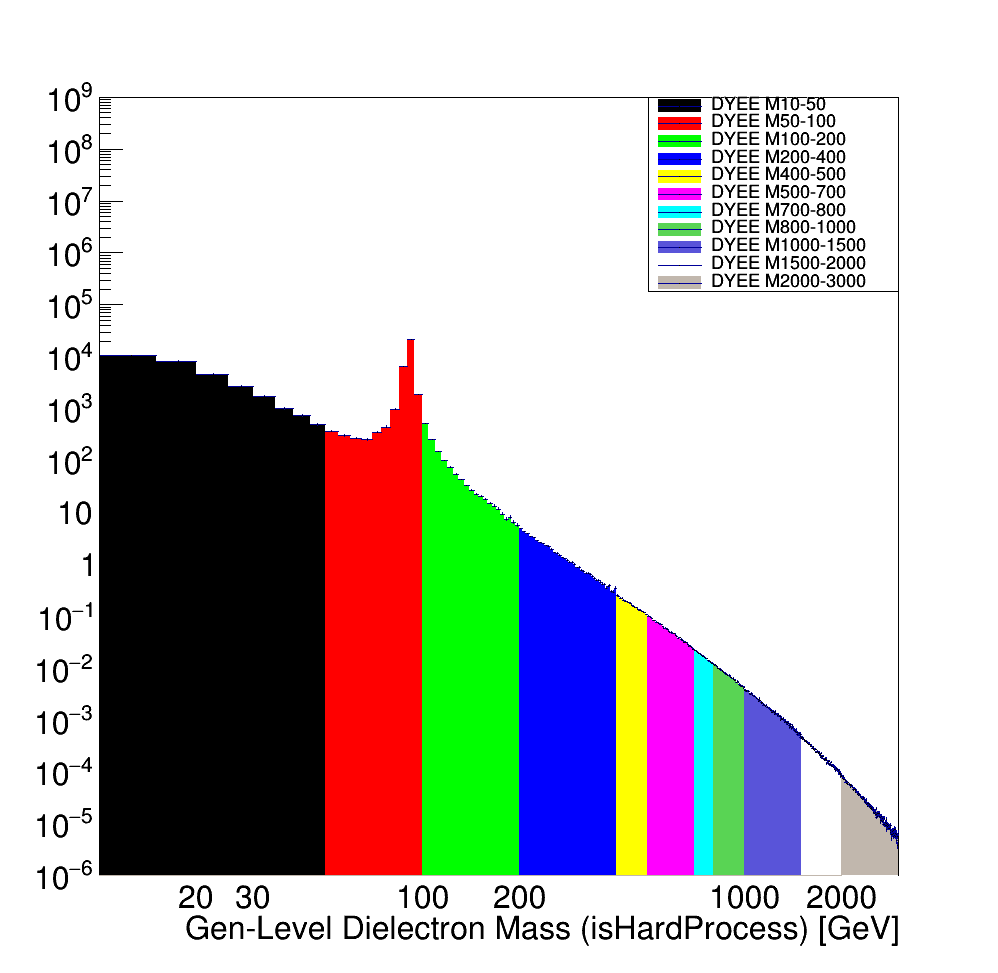
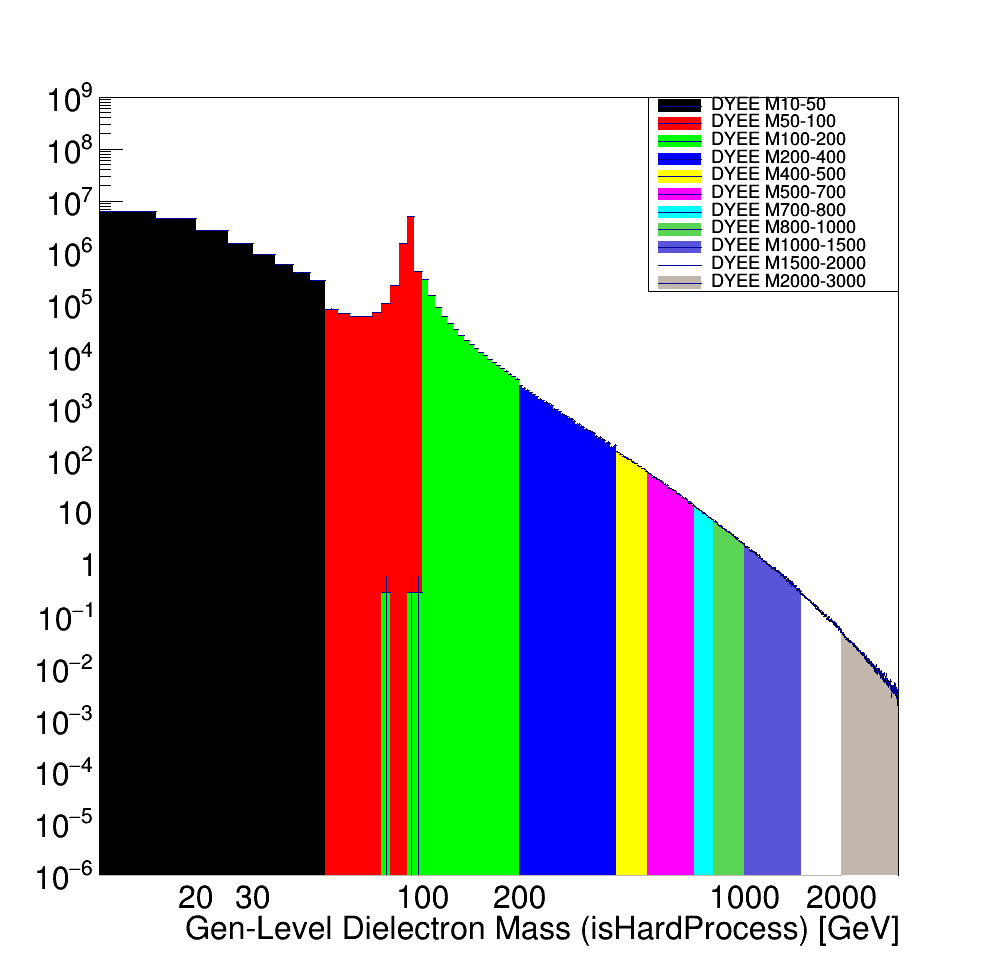
updated to run over reduced ntuples

Changed region(s): [[0.0932, 0.2158, 0.8387, 0.7708], [0.3727, 0.5858, 0.4349, 0.8941], [0.8076, 0.6475, 0.9008, 0.8633]]

diff --git a/dataVsMC.C b/dataVsMC.C
@@ -52,7 +52,7 @@ const int numChains = 37;
 //Cross sections obtained from https://twiki.cern.ch/twiki/bin/viewauth/CMS/SNUCMSYooDYntuple
 const float xSec[numChains] = {5352960,9928000,2890800,350000,62964,18810,1350,//QCD
 			       61526.7,118.7,12.178,16.523,1.256,47.13,4.4297,//Bosons
-			       831.76,76.605,20.578,35.85,35.85,//tops
+			       734.577,76.605,20.578,35.85,35.85,//tops
 			       18810.0,5705.9044344,226.6,7.77,0.4065,0.2334,0.03614,//DY
 			       0.03047,0.01636,0.00218,0.0005156,//DY
 			       1,1,1,1,1,1,1};//data (unweighted)
@@ -71,7 +71,6 @@ const float eMass = 0.000511;
 
 const TString treeName = "recoTree/DYTree";
 const float dRMinCut = 0.3;
-const int maxFiles = 200;
 
 void dataVsMC()
 {
@@ -96,43 +95,43 @@ void dataVsMC()
   
   enum chainNum 
   {
-    QCD20to30 = 0,
-    QCD30to50 = 1,
-    QCD50to80 = 2,
-    QCD80to120 = 3,
-    QCD120to170 = 4,
-    QCD170to300 = 5,
-    QCD300toInf = 6,  
-    wJets = 7,
-    WW = 8,    
-    WWTo2L2Nu = 9,
-    ZZ = 10,       
-    ZZTo4L = 11,
-    WZ = 12,
-    WZTo3LNu = 13,
-    tt = 14,
-    tt700to1000 = 15,
-    tt1000toInf = 16,
-    tW = 17,             
-    tbarW = 18,         
-    MC10to50 = 19,
-    MC50to100 = 20,
-    MC100to200 = 21,
-    MC200to400 = 22,
-    MC400to500 = 23,
-    MC500to700 = 24,
-    MC700to800 = 25,
-    MC800to1000 = 26,
-    MC1000to1500 = 27,
-    MC1500to2000 = 28,
-    MC2000to3000 = 29,
-    DataRunB = 30,
-    DataRunC = 31,
-    DataRunD = 32,
-    DataRunE = 33,
-    DataRunF = 34,
-    DataRunG = 35,
-    DataRunH = 36
+    QCD20to30,
+    QCD30to50,
+    QCD50to80,
+    QCD80to120,
+    QCD120to170,
+    QCD170to300,
+    QCD300toInf,  
+    wJets,
+    WW,    
+    WWTo2L2Nu,
+    ZZ,       
+    ZZTo4L,
+    WZ,
+    WZTo3LNu,
+    tt0to700,
+    tt700to1000,
+    tt1000toInf,
+    tW,             
+    tbarW,         
+    MC10to50,
+    MC50to100,
+    MC100to200,
+    MC200to400,
+    MC400to500,
+    MC500to700,
+    MC700to800,
+    MC800to1000,
+    MC1000to1500,
+    MC1500to2000,
+    MC2000to3000,
+    DataRunB,
+    DataRunC,
+    DataRunD,
+    DataRunE,
+    DataRunF,
+    DataRunG,
+    DataRunH
   }; 
 
 TString dirNames[numChains]=
@@ -151,13 +150,13 @@ TString dirNames[numChains]=
     "/ZZTo4L_13TeV_powheg_pythia8",
     "/WZ_TuneCUETP8M1_13TeV-pythia8",
     "/WZTo3LNu_TuneCUETP8M1_13TeV-powheg-pythia8",
-    "/TT_TuneCUETP8M2T4_13TeV-powheg-pythia8/crab_ttbar",
+    "/TT_TuneCUETP8M2T4_13TeV-powheg-pythia8_truncated_M0To700/crab_ttbar",
     "/TT_Mtt-700to1000_TuneCUETP8M2T4_13TeV-powheg-pythia8",
     "/TT_Mtt-1000toInf_TuneCUETP8M2T4_13TeV-powheg-pythia8",
     "/ST_tW_top_5f_inclusiveDecays_13TeV-powheg-pythia8_TuneCUETP8M1",
     "/ST_tW_antitop_5f_inclusiveDecays_13TeV-powheg-pythia8_TuneCUETP8M1",
     "/DYJetsToLL_M-10to50_TuneCUETP8M1_13TeV-amcatnloFXFX-pythia8/crab_DYLL_M10to50",
-    "/DYJetsToLL_M-50_TuneCUETP8M1_13TeV-amcatnloFXFX-pythia8",
+    "/DYJetsToLL_M-50_TuneCUETP8M1_13TeV-amcatnloFXFX-pythia8_truncated_M50To100",
     "/DYJetsToLL_M-100to200_TuneCUETP8M1_13TeV-amcatnloFXFX-pythia8/crab_DYLL_M100to200",
     "/DYJetsToLL_M-200to400_TuneCUETP8M1_13TeV-amcatnloFXFX-pythia8",
     "/DYJetsToLL_M-400to500_TuneCUETP8M1_13TeV-amcatnloFXFX-pythia8",
@@ -178,19 +177,17 @@ TString dirNames[numChains]=
  
  TString baseDirectory = 
    "/mnt/hadoop/user/uscms01/pnfs/unl.edu/data4/cms/store/user/ikrav/DrellYan_13TeV_2016/v2p3"; 
+    
  TChain*chains[numChains];
  vector <TString> *subFiles[numChains];  
  for(int iChain=0;iChain<numChains;iChain++)
    {
-     if(iChain==tt700to1000||iChain==tt1000toInf) continue;//skip these files for now
-     if(iChain==WWTo2L2Nu||iChain==ZZTo4L||iChain==WZTo3LNu) continue;//skip these files for now
+     if(iChain==WWTo2L2Nu||iChain==ZZTo4L||iChain==WZTo3LNu) continue;//Not using these in this analysis
+     if(iChain==QCD20to30||iChain==QCD30to50||iChain==QCD50to80||iChain==QCD80to120||iChain==QCD120to170||
+	iChain==QCD170to300||iChain==QCD300toInf) continue;//skipping QCD due to possible problems
+
      subFiles[iChain] = new vector<TString>;
-     if(iChain==QCD30to50||iChain==QCD50to80||iChain==QCD80to120||iChain==QCD120to170) 
-       {
-	 subFiles[iChain]->push_back(dirNames[iChain]);
-	 subFiles[iChain]->push_back(dirNames[iChain]+"_ext1");
-       }
-     else if(iChain==MC10to50) 
+     if(iChain==MC10to50) 
        {
 	 subFiles[iChain]->push_back(dirNames[iChain]+"_ext1v1");
 	 subFiles[iChain]->push_back(dirNames[iChain]+"_v1");
@@ -206,7 +203,7 @@ TString dirNames[numChains]=
 	 subFiles[iChain]->push_back(dirNames[iChain]+"ver2");
 	 subFiles[iChain]->push_back(dirNames[iChain]+"ver3");
        }
-     else if(iChain==tt)
+     else if(iChain==tt0to700)
        {
 	 subFiles[iChain]->push_back(dirNames[iChain]);
 	 subFiles[iChain]->push_back(dirNames[iChain]+"Backup");
@@ -219,8 +216,9 @@ TString dirNames[numChains]=
  Long64_t totalentries = 0;
  for(int iChain=0;iChain<numChains;iChain++)
     {          
-      if(iChain==tt700to1000||iChain==tt1000toInf) continue;//skip these files for now
-      if(iChain==WWTo2L2Nu||iChain==ZZTo4L||iChain==WZTo3LNu) continue;//skip these files for now
+      if(iChain==WWTo2L2Nu||iChain==ZZTo4L||iChain==WZTo3LNu) continue;//not using these in this analysis
+      if(iChain==QCD20to30||iChain==QCD30to50||iChain==QCD50to80||iChain==QCD80to120||iChain==QCD120to170||
+	 iChain==QCD170to300||iChain==QCD300toInf) continue;//skipping QCD due to possible problems
       chains[iChain] = new TChain(treeName);
       subDirectorySize = subFiles[iChain]->size();
       for(int k=0;k<subDirectorySize;k++)
@@ -341,7 +339,7 @@ TString dirNames[numChains]=
   hStacklinear->Add(hTopslinear);
   hStacklinear->Add(hMCInvMasslinear); 
 
-  TFile *rootFile = new TFile("./plots/dataVsMC.root","RECREATE");
+  TFile *rootFile = new TFile("./plots/dataVsMC35900Scaling.root","RECREATE");
 
   //Event Loop
   cout << "Starting Event Loop" << endl;
@@ -352,18 +350,18 @@ TString dirNames[numChains]=
   TString trigName;
   int trigNameSize;
   //nentries = 10000;
-  double lumi = chains[MC50to100]->GetEntries()/xSec[MC50to100]; //luminosity of 50to100
+  //double lumi = chains[MC50to100]->GetEntries()/xSec[MC50to100]; //luminosity of 50to100
   //double lumi = nentries/xSec[MC50to100];
+  double lumi = 35900;
   for(int iChain=0;iChain<numChains;iChain++)
     {
-      if(iChain==tt700to1000||iChain==tt1000toInf) continue;//skip these files for now
-      if(iChain==WWTo2L2Nu||iChain==ZZTo4L||iChain==WZTo3LNu) continue;//skip these files for now
+      if(iChain==WWTo2L2Nu||iChain==ZZTo4L||iChain==WZTo3LNu) continue;//not using these in this analysis
+      if(iChain==QCD20to30||iChain==QCD30to50||iChain==QCD50to80||iChain==QCD80to120||iChain==QCD120to170||
+	 iChain==QCD170to300||iChain==QCD300toInf) continue;//skipping QCD due to possible problems
       //nentries = 10000;
       nentries = chains[iChain]->GetEntries();
       //if(chains[iChain]->GetEntries() < nentries) nentries = chains[iChain]->GetEntries();
-      weight=lumi*(xSec[iChain]/nentries);
-
-      
+      weight=lumi*(xSec[iChain]/nentries);      
 
       for(Long64_t i=0;i<nentries;i++)
 	{      
@@ -400,8 +398,7 @@ TString dirNames[numChains]=
 		{	  
 		  invMass=calcInvMass(Electron_pT[iEle],Electron_eta[iEle],Electron_phi[iEle],eMass,
 				      Electron_pT[jEle],Electron_eta[jEle],Electron_phi[jEle],eMass);
-		  
-		  if(iChain==MC50to100 && invMass>100) continue;
+
 		  if(!passDileptonKinematics(Electron_pT[iEle],Electron_pT[jEle],Electron_eta[iEle],
 					     Electron_eta[jEle])) continue; 		    
 
@@ -425,7 +422,7 @@ TString dirNames[numChains]=
 		      hEW->Fill(invMass,weight);
 		      hEWlinear->Fill(invMass,weight);
 		    }
-		  else if(iChain==tt||iChain==tW||iChain==tbarW) 
+		  else if(iChain==tt0to700||iChain==tt700to1000||iChain==tt1000toInf||iChain==tW||iChain==tbarW) 
 		    {
 		      hTops->Fill(invMass,weight);
 		      hTopslinear->Fill(invMass,weight);
@@ -444,7 +441,7 @@ TString dirNames[numChains]=
     }//end chain loop 
   
   double integralData, integralMC;
-  
+  /*  
   integralData = 
     hDataInvMass->Integral(hDataInvMass->GetXaxis()->FindBin(binLow),hDataInvMass->GetXaxis()->FindBin(binHigh));
   integralMC = 
@@ -463,7 +460,7 @@ TString dirNames[numChains]=
   hFakeslinear->Scale(norm);
   hEWlinear->Scale(norm);
   hTopslinear->Scale(norm);  
-
+  */
   TCanvas*canvas1 = new TCanvas("canvas1","",10,10,1000,1000);
   canvas1->SetLogx();
   canvas1->SetLogy();
@@ -474,7 +471,7 @@ TString dirNames[numChains]=
   legend->AddEntry(hMCInvMass,"#gamma^{*}/Z #rightarrow e^{-}e^{+}");
   legend->AddEntry(hTops,"t#bar{t}+tW+#bar{t}W");
   legend->AddEntry(hEW,"EW");
-  legend->AddEntry(hFakes,"Fakes (Wjets+QCD)");
+  legend->AddEntry(hFakes,"Fakes");
 
   auto hDataMCRatio = new TRatioPlot(hStack,hDataInvMass);
   hDataMCRatio->GetXaxis()->SetTitle("m_{ee} [GeV]");  
@@ -483,20 +480,17 @@ TString dirNames[numChains]=
   hDataMCRatio->GetUpperPad()->cd();
   legend->Draw("same");
   canvas1->Update();
-  canvas1->SaveAs("./plots/dataVsMClog.png");
   
   TCanvas*canvas2 = new TCanvas("canvas2","",10,10,1000,1000);
   canvas2->SetLogy();
   auto hDataMCRatiolinear = new TRatioPlot(hStacklinear,hDataInvMasslinear); 
   canvas2->cd();
   hDataMCRatiolinear->Draw();
-  //TH1F*graph = (TH1F*)hDataMCRatiolinear->Clone();
-  //graph->SetMinimum(0.001);
-  //graph->Draw();
   hDataMCRatiolinear->GetUpperPad()->cd();
   legend->Draw("same");
  
-  canvas2->SaveAs("./plots/dataVsMClinear.png");
+  canvas1->SaveAs("./plots/dataVsMClog35900Scaling.png");
+  
   rootFile->cd();
   hStack->Write();
   hDataInvMass->Write();
@@ -511,7 +505,6 @@ TString dirNames[numChains]=
   hEWlinear->Write();
   hTopslinear->Write();
   canvas1->Write();
-  canvas2->Write();
   rootFile->Write();
   rootFile->Close();
   
@@ -537,8 +530,7 @@ void counter(Long64_t i, Long64_t N)
   TTimeStamp eventTimeStamp;
   if(i%(N/100)==0)
     {
-      cout << P << "%" <<  endl;
-      cout << "[Time: " << eventTimeStamp.AsString("s") << "]" << endl;
+      cout << "dataVsMC.C " << P << "%" <<  "[Time: " << eventTimeStamp.AsString("s") << "]" << endl;
     }
   return;
 }

diff --git a/efficiencies.C b/efficiencies.C
@@ -119,8 +119,7 @@ void efficiencies()
 	"/DYJetsToLL_M-1000to1500_TuneCUETP8M1_13TeV-amcatnloFXFX-pythia8",
 	"/DYJetsToLL_M-1500to2000_TuneCUETP8M1_13TeV-amcatnloFXFX-pythia8",
 	"/DYJetsToLL_M-2000to3000_TuneCUETP8M1_13TeV-amcatnloFXFX-pythia8"
-      };
- 
+      }; 
  TString baseDirectory = 
    "/mnt/hadoop/user/uscms01/pnfs/unl.edu/data4/cms/store/user/ikrav/DrellYan_13TeV_2016/v2p3"; 
  TChain*chains[numChains];
@@ -361,8 +360,7 @@ void efficiencies()
 	  if(idxRecoEle1>0&&idxRecoEle2>0)
 	    invMassReco=calcInvMass(Electron_pT[idxRecoEle1],Electron_eta[idxRecoEle1],Electron_phi[idxRecoEle1],
 				    eMass,Electron_pT[idxRecoEle2],Electron_eta[idxRecoEle2],
-				    Electron_phi[idxRecoEle2],eMass);
-	  
+				    Electron_phi[idxRecoEle2],eMass);	  
 	  if(nGenDielectrons==0) 
 	    continue; // must be DY->mumu or tautau event, skip it
 	  
@@ -391,10 +389,10 @@ void efficiencies()
 				GENLepton_phi[idxGenEleFS1],eMass,GENLepton_pT[idxGenEleFS2],
 				GENLepton_eta[idxGenEleFS2],GENLepton_phi[idxGenEleFS2],eMass);		  
 
-	  hHardProcess[iChain]->Fill(invMassHardProcess,weight);//Fill if hard process electrons
-
-	  trigNameSize = pHLT_trigName->size();
+	  hHardProcess[iChain]->Fill(invMassHardProcess,weight);//Fill if hard process gen-electrons
+	  
 	  //HLT cut
+	  trigNameSize = pHLT_trigName->size();
 	  bool passHLT = kFALSE;	  
 	  for(int iHLT=0;iHLT<trigNameSize;iHLT++)
             {
@@ -431,8 +429,8 @@ void efficiencies()
 	  closestTrackLep1 = closestTrackLep2 = -1;
 	  bool genToRecoMatchedLep1 = findGenToRecoMatch(idxGenEleFS1,closestTrackLep1);	      
 	  bool genToRecoMatchedLep2 = findGenToRecoMatch(idxGenEleFS2,closestTrackLep2);	      
-	  if( ! (genToRecoMatchedLep1 && genToRecoMatchedLep2) )
-	    continue;
+	  if(!(genToRecoMatchedLep1 && genToRecoMatchedLep2)) continue;
+
 	  // Both electrons are reconstructed
 	  hGenMatchedDielectronInvMass->Fill(invMass,weight);
 	  
@@ -606,6 +604,8 @@ void efficiencies()
   canvas4->SaveAs("./plots/acceptance.png");
   canvas5->SaveAs("./plots/pTvsMassProf.png");
   canvas6->SaveAs("./plots/migMatrixGENFSvsGENisHard.png");
+  canvas7->SaveAs("./plots/migMatrixGENFSvsGReco.png");
+  canvas6->SaveAs("./plots/migMatrixGENisHardvsReco.png");
   
   rootFile->cd();
   hIDEfficiency->Write();
@@ -620,12 +620,16 @@ void efficiencies()
   hpTvsMassProf->Write();
   hpTvsMass->Write();
   migMatrixGENFSvsGENisHard->Write();
+  migMatrixGENFSvsReco->Write();
+  migMatrixGENisHardvsReco->Write();
   canvas1->Write();
   canvas2->Write();
   canvas3->Write();
   canvas4->Write();
   canvas5->Write();
   canvas6->Write();
+  canvas7->Write();
+  canvas8->Write();
   rootFile->Write();
   rootFile->Close();   
   
@@ -651,8 +655,7 @@ void counter(Long64_t i, Long64_t N)
   TTimeStamp eventTimeStamp;
   if(i%(N/100)==0)
     {
-      cout << P << "%" <<  endl;
-      cout << "[Time: " << eventTimeStamp.AsString("s") << "]" << endl;
+      cout << "efficiencies.C " << P << "%" <<  "[Time: " << eventTimeStamp.AsString("s") << "]" << endl;
     }
   return;
 }
